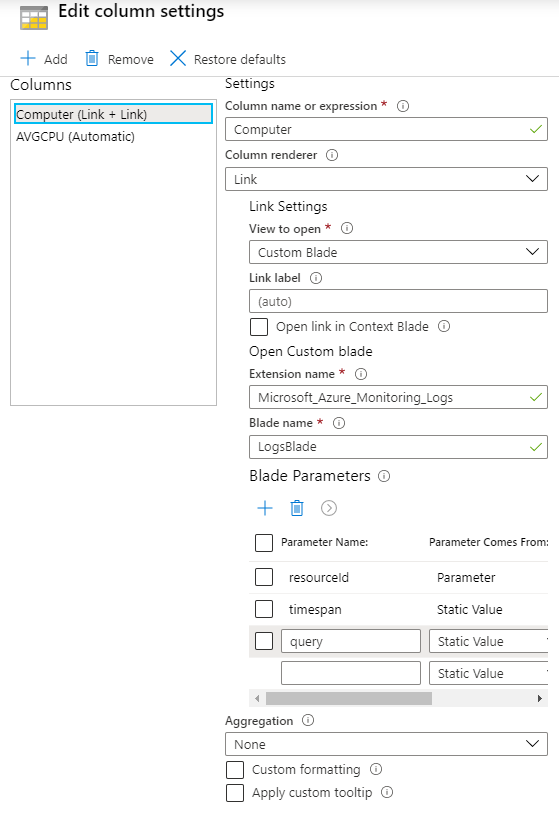
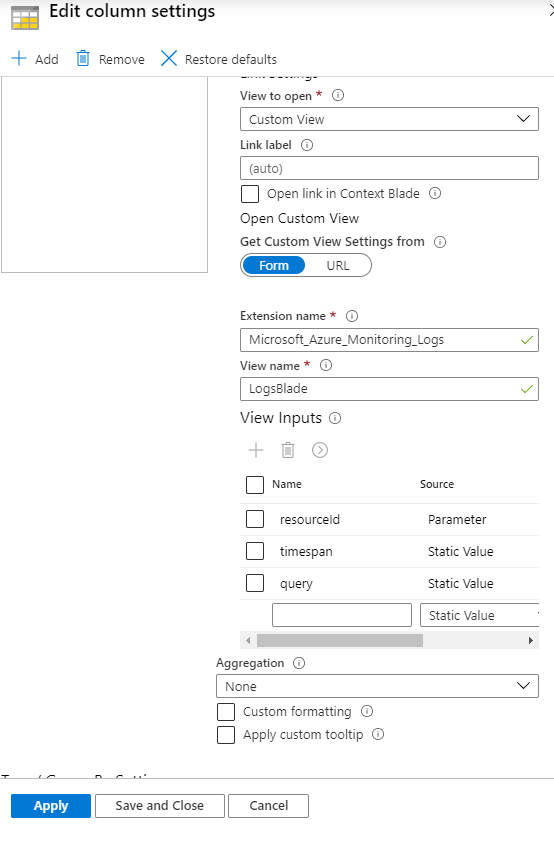
update screen shots and URL option doc

diff --git a/Documentation/Visualizations/Grid.md b/Documentation/Visualizations/Grid.md
@@ -168,13 +168,24 @@ After these configurations are set, when the user clicks on the link, it will op
 ![Image showing run ARM view](../Images/RunArmBlade.png)
 
 #### Custom View link settings
+
+Use this to open Custom Views in the Azure Portal. Verify all of the configuration and settings. Incorrect values will cause errors in the portal, or fail to open the views correctly. There are two ways to configure the settings, via the `Form` or via `URL`.
+
+##### Form
+
 | Source | Explanation |
 |:------------- |:-------------|
 |`Extension name` | The name of the extension that hosts the name of the View.|
 |`View name` | The name of the View to open. |
-|`View Parameters` | These are the inputs for the View. <ul><li>`Parameter Name`: The name of the View input parameter</li><li>`Parameter Comes From`: Where the value of the View parameter should come from. Select from `Cell`, `Column`, `Parameter`, or `Static Value`  in [Link sources](#link-sources). **NOTE** If `Static Value` is selected, you can resolve parameters using brackets like `{paramName}` in the text box. Also you treat columns as parameters columns by appending `_column` after the column name like `{columnName_column}`.</li><li>`Parameter Value`: depending on `Parameter Comes From`, this will be a dropdown of available parameters, columns, or a static value.</li>
+|`View Parameters` | These are the inputs for the View. <ul><li>`Parameter Name`: The name of the View input parameter</li><li>`Parameter Comes From`: Where the value of the View parameter should come from. Select from `Cell`, `Column`, `Parameter`, or `Static Value`  in [Link sources](#link-sources). **NOTE** If `Static Value` is selected, the parameters can be resolvedusing brackets like `{paramName}` in the text box. Also, columns can be treated as parameters columns by appending `_column` after the column name like `{columnName_column}`.</li><li>`Parameter Value`: depending on `Parameter Comes From`, this will be a dropdown of available parameters, columns, or a static value.</li>
 
 ![Image showing Custom View settings link settings](../Images/CustomBladeSettings.png)
+
+##### URL
+
+Paste a Portal URL containing the extension, name of the view, and any inputs needed to open the view. After clicking `Initialize Settings`, it will populate the `Form` for the author to add/modify/remove any of the View inputs.
+
+![Image showing Custom View settings link settings](../Images/CustomBladeSettingsURL.png)
 
 #### Workbook (template) link settings
 If the selected link type is `Workbook (Template)` the author must specify additional settings to open up the correct workbook template. The settings below have options for how the grid will find the appropriate value for each of the settings. 
